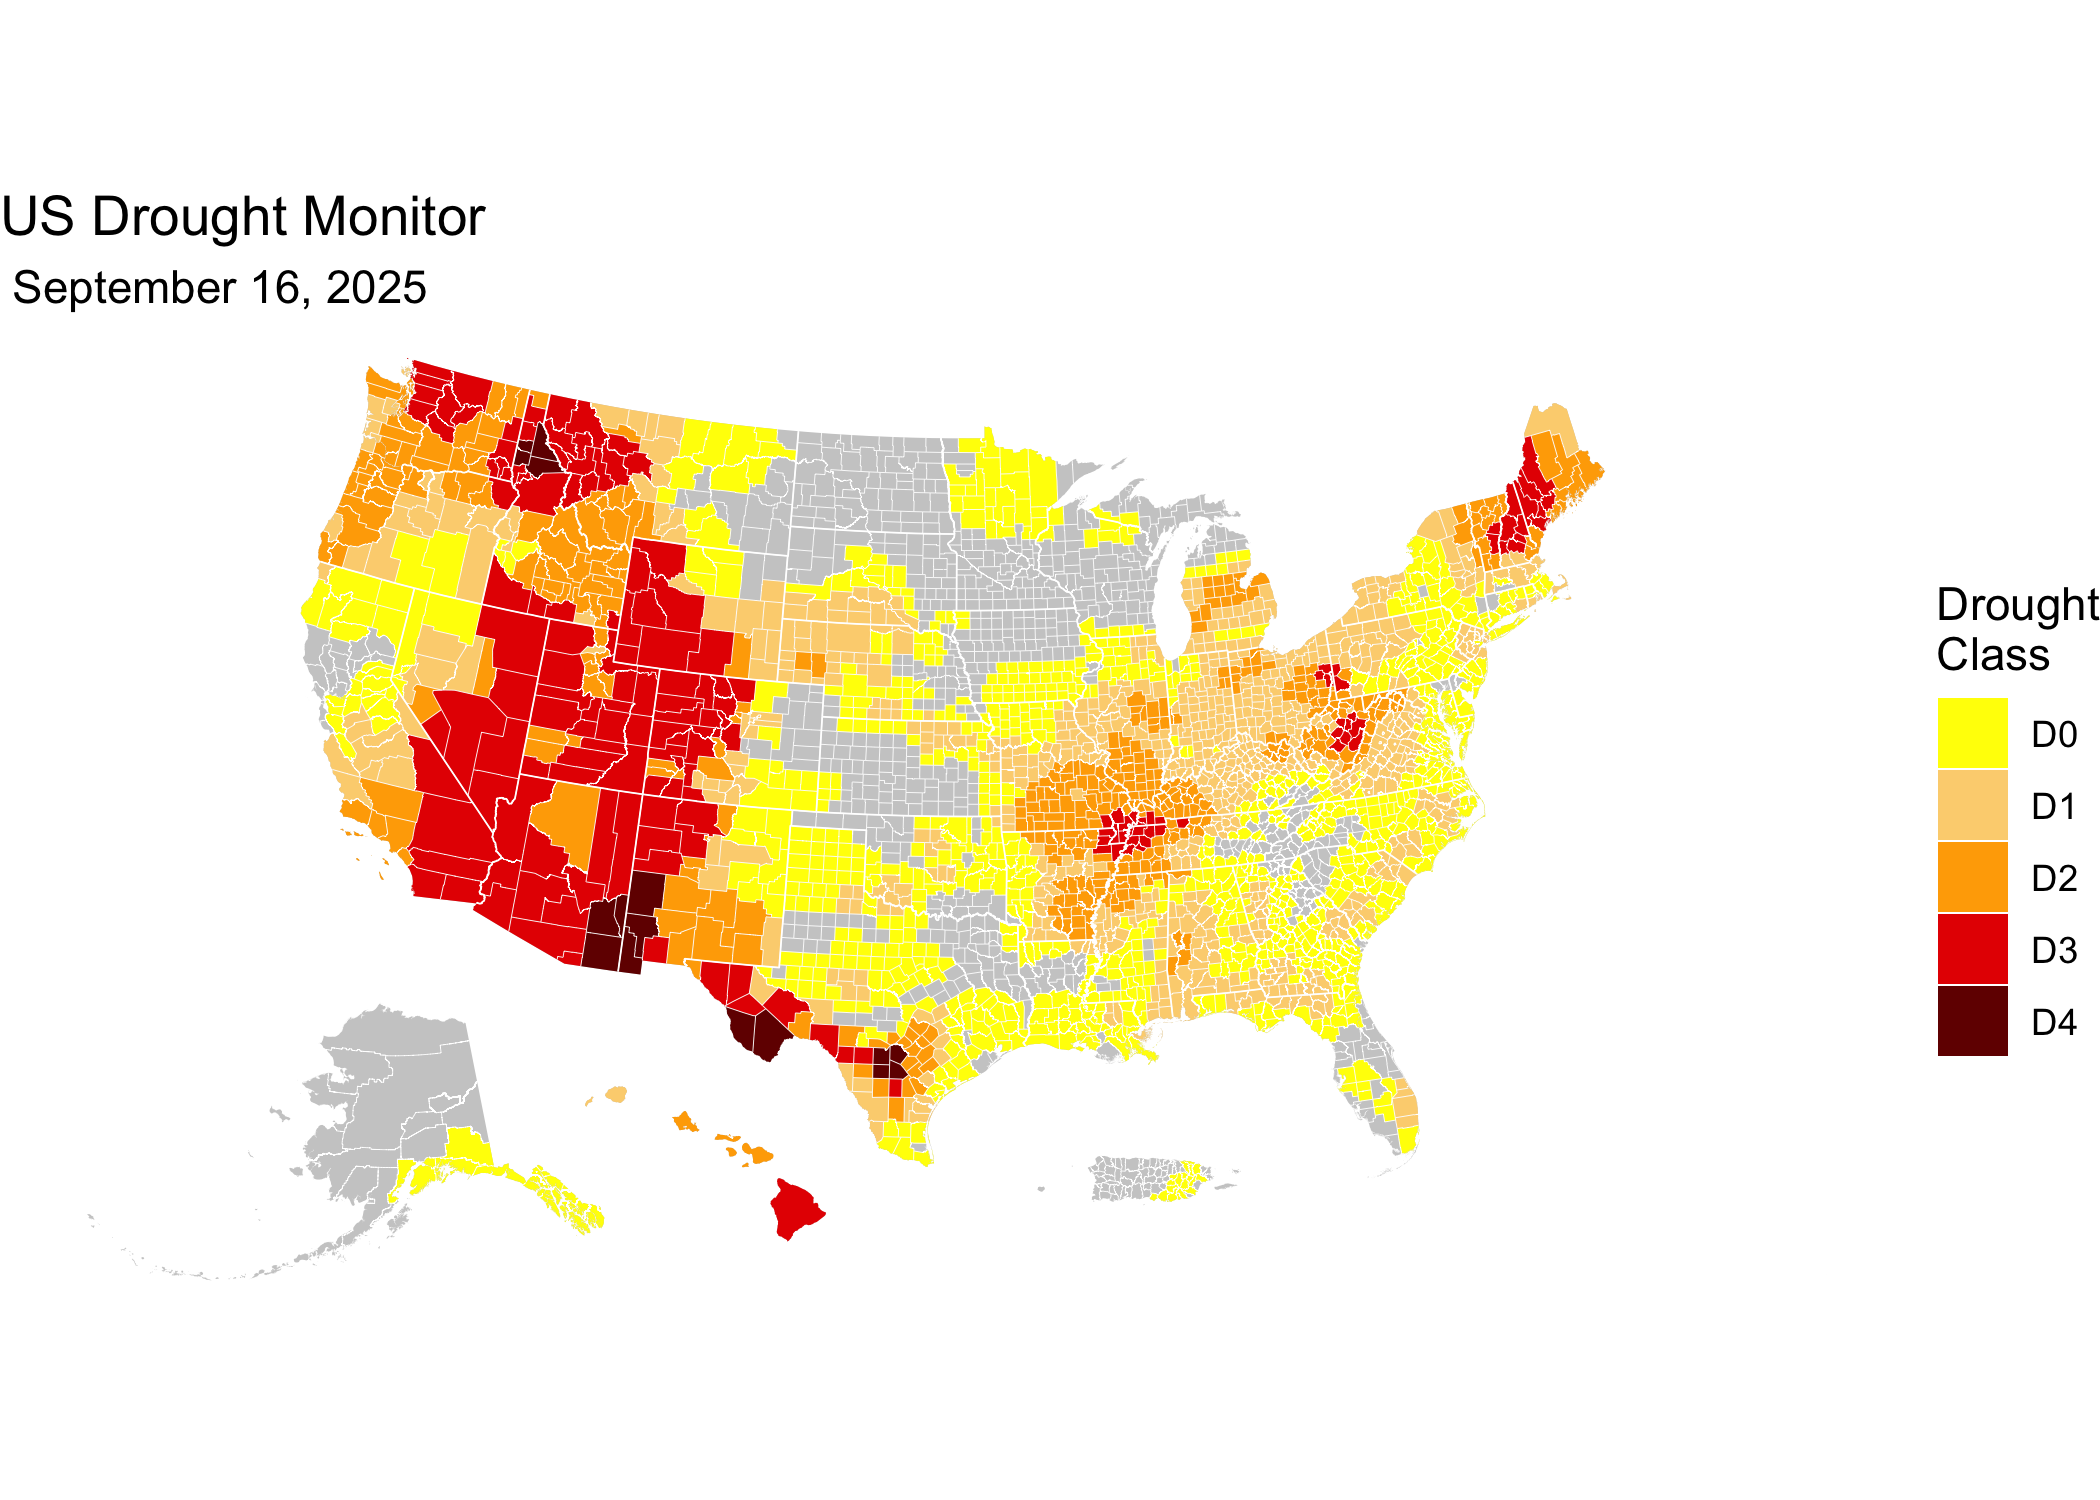
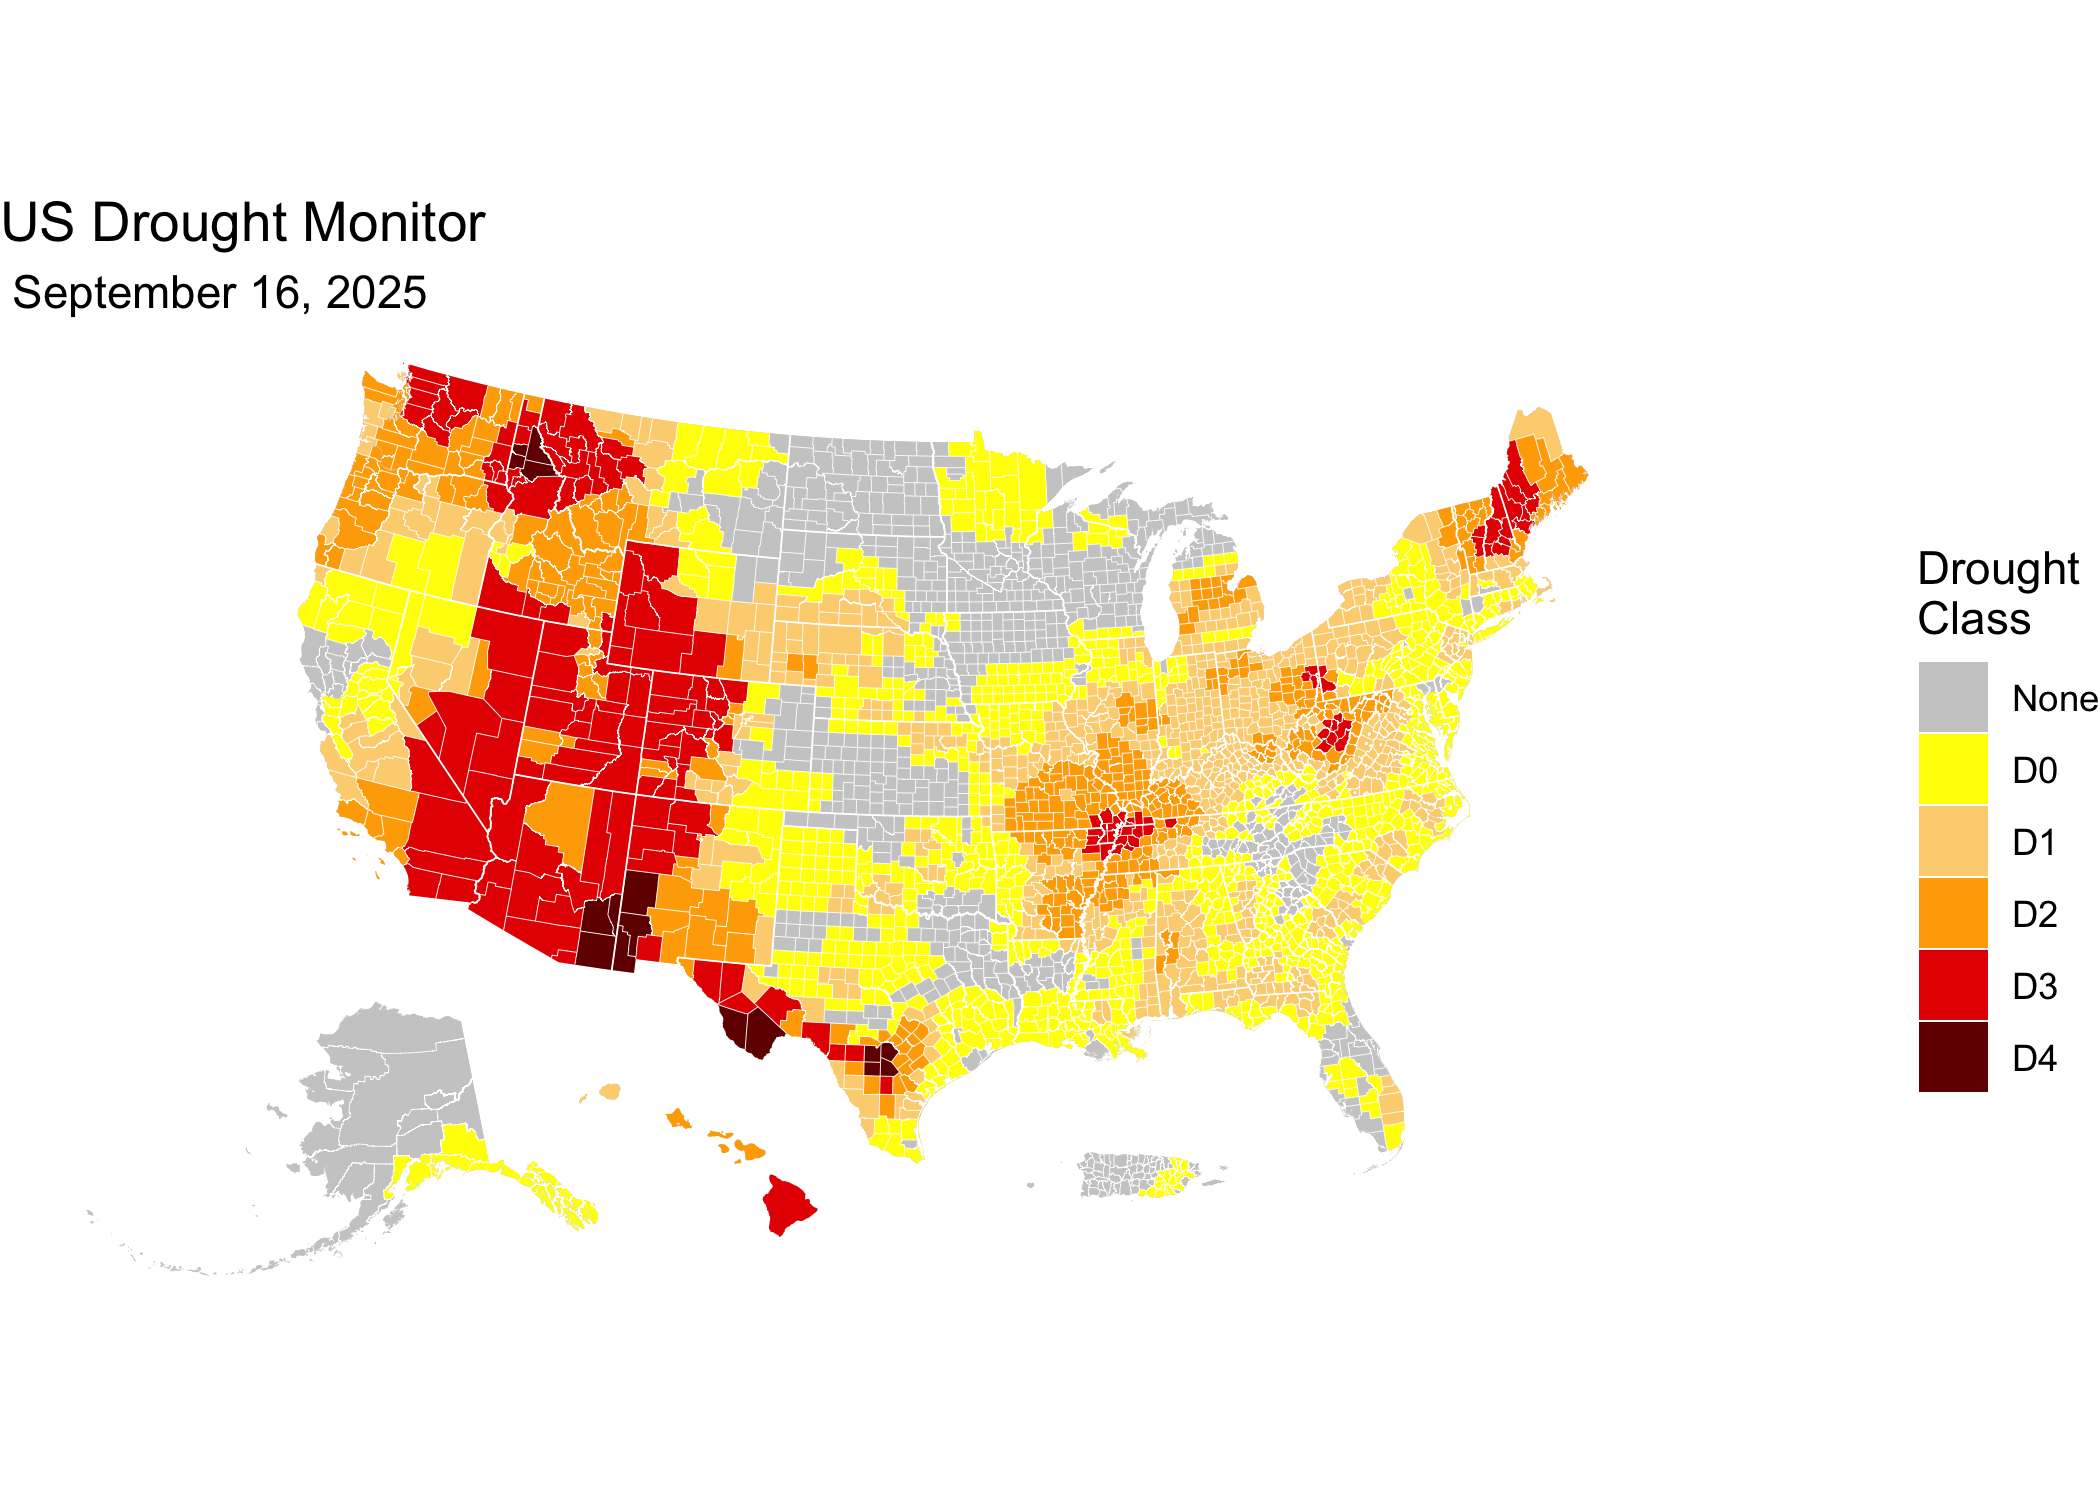
update to include date and None

diff --git a/README.md b/README.md
@@ -212,7 +212,8 @@ ggplot(counties) +
           color = "white",
           linewidth = 0.2) +
   scale_fill_manual(
-    values = c("#ffff00",
+    values = c("grey80",
+               "#ffff00",
                "#fcd37f",
                "#ffaa00",
                "#e60000",
